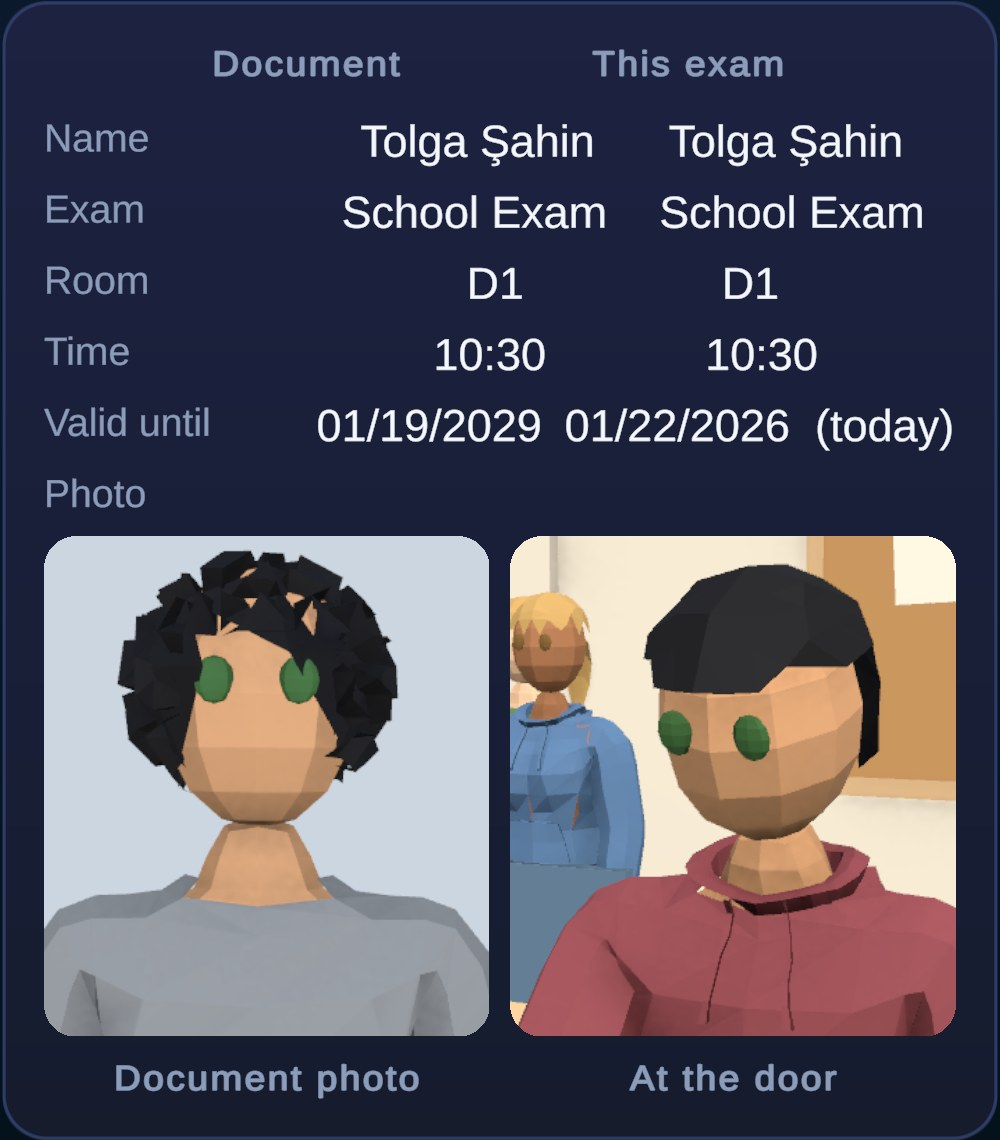
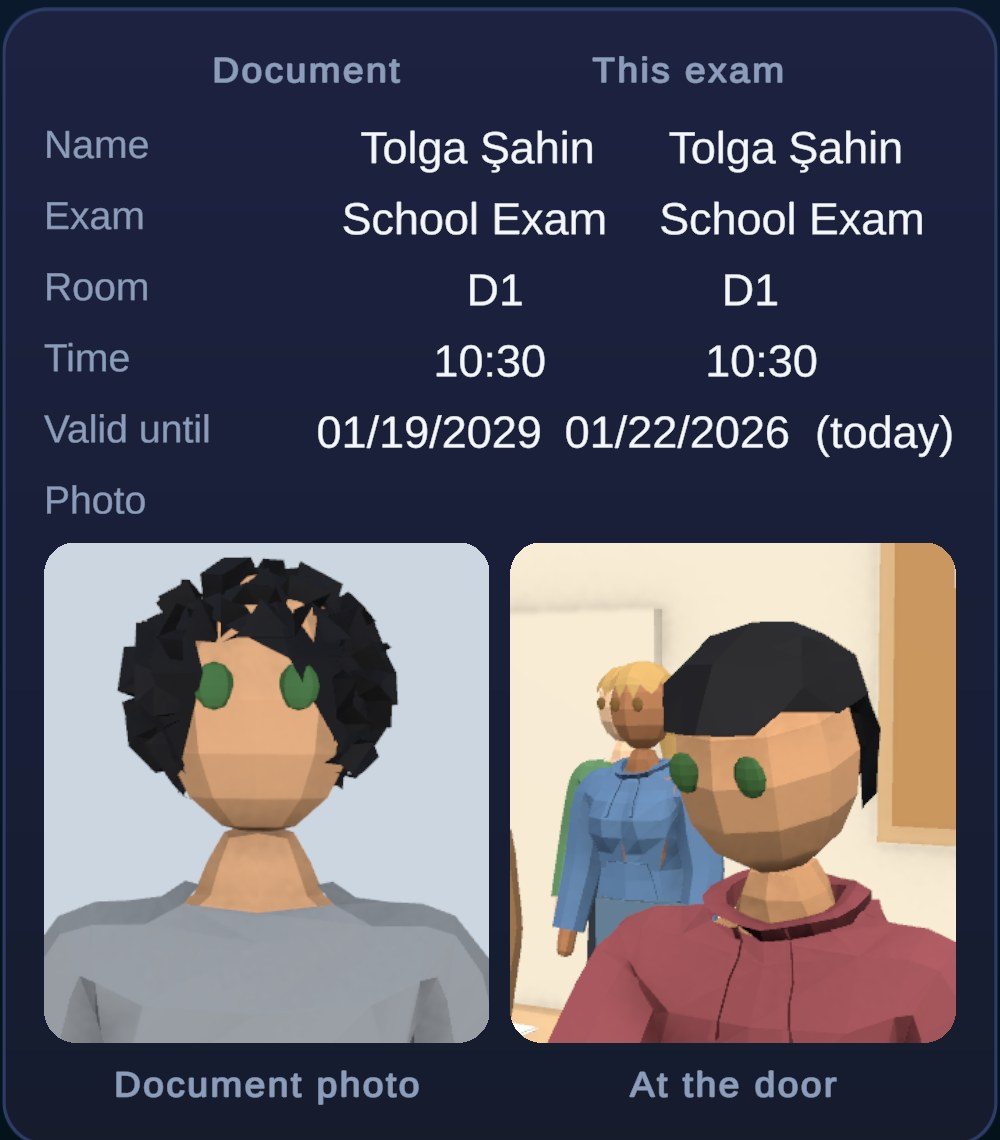
Admission Photo Check: still door camera, no look in words
The close-up at the door is now a fixed camera on the inspection spot, so
the report shows the re-captured cases, the walk in and out, and the card
without the trait line under the name. The lit-side before/after images
are gone with the tracking camera they showed.

diff --git a/admission-photo/index.html b/admission-photo/index.html
@@ -4,7 +4,7 @@
 <meta charset="utf-8">
 <meta name="viewport" content="width=device-width,initial-scale=1">
 <title>Admission Photo Check</title>
-<meta name="description" content="The admission photo check as pictures: the document photo beside a live close-up of the person at the door, with a readability verdict for every case.">
+<meta name="description" content="The admission photo check as pictures: the document photo beside a still, live camera on the person at the door, with a readability verdict for every case.">
 <link rel="preconnect" href="https://fonts.googleapis.com">
 <link rel="preconnect" href="https://fonts.gstatic.com" crossorigin>
 <link rel="stylesheet" href="https://fonts.googleapis.com/css2?family=Bricolage+Grotesque:opsz,wght@12..96,500;12..96,700&family=Source+Sans+3:wght@400;600&family=JetBrains+Mono:wght@500&display=swap">
@@ -63,7 +63,7 @@ figure { margin: 0; display: grid; gap: 8px; align-content: start; }
 figcaption { font-size: 0.92rem; color: var(--muted); display: grid; gap: 4px; }
 figcaption b { color: var(--ink); font-weight: 600; }
 .figs { display: grid; grid-template-columns: repeat(auto-fill, minmax(260px, 1fr)); gap: 16px; }
-.pair { display: grid; grid-template-columns: repeat(auto-fit, minmax(240px, 1fr)); gap: 16px; max-width: 760px; }
+.seq { display: grid; gap: 16px; }
 
 .lead-row { display: grid; grid-template-columns: minmax(0, 300px) minmax(0, 1fr); gap: 24px; align-items: start; }
 @media (max-width: 720px) { .lead-row { grid-template-columns: 1fr; } .lead-row figure { max-width: 300px; } }
@@ -90,17 +90,19 @@ figcaption b { color: var(--ink); font-weight: 600; }
     <h1>Admission Photo Check</h1>
     <p class="lede">At the door, the player compares the photo on a candidate's document with the person in front of them.
       This used to be four lines of words per side. It is now two pictures: the document photo, rendered from the photo's
-      traits in a plain booth, and a live close-up of the actual student the room has walked to the door. Everything below
-      is a capture of the real admission screen at 1080×2340 portrait. The photos were forced to each case on a
-      fixed-seed career.</p>
+      traits in a plain booth, and a still, live camera on the spot where the room walks each student to the door. The
+      player compares faces, not words: the person's look is no longer written under their name. Everything below is a
+      capture of the real admission screen at 1080×2340 portrait. The photos were forced to each case on a fixed-seed
+      career.</p>
   </header>
 
   <section>
     <div class="section-head">
       <h2>Verdict</h2>
-      <p class="muted">Every impostor change is visible at phone size. Hair and glasses read at a glance. Eyes and skin need a
-        real look, which is the judgement the door is meant to ask for. Two pairs are close enough that a player could miss
-        them.</p>
+      <p class="muted">Every impostor change is visible at phone size, with the camera now fixed in place. The face at the door
+        is about as large as it was when the camera followed the person, and it is seen a little more from the side (26°
+        instead of 22°). Hair and glasses read at a glance. Eyes and skin need a real look, which is the judgement the door
+        is meant to ask for. Two pairs are close enough that a player could miss them.</p>
     </div>
     <div class="verdicts">
       <div class="card"><span class="tag glance">at a glance</span><h3>Haircut, hair colour, glasses</h3>
@@ -112,7 +114,8 @@ figcaption b { color: var(--ink); font-weight: 600; }
         <p>Medium against tan, tan against dark, and anything two steps apart are clear.</p></div>
       <div class="card"><span class="tag care">with care</span><h3>Skin, light against medium</h3>
         <p>The weakest case. The photo's even light and the room's warm light shift both tones a little. It reads, but only
-          if you compare the lit cheeks.</p></div>
+          if you compare the lit cheeks. The camera stays on the side of the face the room's sun lights, so a light face
+          does not turn grey.</p></div>
     </div>
   </section>
 
@@ -126,15 +129,35 @@ figcaption b { color: var(--ink); font-weight: 600; }
         <figcaption>The whole door at 1080×2340, shown at half size.</figcaption>
       </figure>
       <ul class="notes">
+        <li><b>No look in words.</b> The line under the name used to print "long auburn hair, brown eyes, light skin,
+          glasses". It is hidden whenever the pictures show. It comes back only in the game's developer debug mode
+          (the same switch as the ground-truth labels, which a release build cannot turn on), and when the pictures
+          cannot render, where the card falls back to words.</li>
         <li><b>Document photo.</b> Head and shoulders, dead on, an even frontal light, a pale backdrop. The sitter always
           wears the same grey top, so clothing never enters the comparison. Rendered once per face and cached.</li>
-        <li><b>At the door.</b> A live camera on the real student standing at the door, about 20° to the side and a little
-          above eye height, lit by the room. The player sees them walk into frame.</li>
+        <li><b>At the door.</b> A live camera that never moves. It is placed once from the spot where the room walks each
+          student to be checked, at standing eye height, a little in front of them and 26° to the side the room's sun lights.
+          It does not follow anyone. The person being checked fills the right of the frame; the queue, the walk in and the
+          way out show behind and beside them.</li>
         <li><b>The rest of the card is unchanged.</b> The "Photo" row keeps its label and the pictures replace its two value
-          cells. When nothing can render (tests, headless) the card falls back to the old words.</li>
-        <li><b>Still on screen:</b> the line under the name repeats the person's look in words. This slice left it alone,
-          and it gives the comparison away. See the open questions.</li>
+          cells.</li>
       </ul>
+    </div>
+  </section>
+
+  <section>
+    <div class="section-head">
+      <h2>Coming and going</h2>
+      <p class="muted">Four frames from the live picture after a decision, camera untouched. Captured with the game slowed
+        to a quarter speed so the walk shows in four frames; at full speed the change-over takes about a second.</p>
+    </div>
+    <div class="seq">
+      <figure><img src="img/seq_admit.jpg" width="1316" height="400" alt="Four frames: a student at the door, then walking past the camera to a seat, the next student walking up, then standing at the door">
+        <figcaption><b>Admitted.</b> The student at the door walks past the camera toward the seats while the next one in
+          the queue walks up and stops at the same spot.</figcaption></figure>
+      <figure><img src="img/seq_reject.jpg" width="1316" height="400" alt="Four frames: a student at the door, then the next student walking up while the rejected one walks away to the back door, then the new student at the door with the rejected one leaving behind them">
+        <figcaption><b>Rejected.</b> The rejected student turns and walks back out through the door at the back of the room,
+          passing behind the next student as they arrive.</figcaption></figure>
     </div>
   </section>
 
@@ -209,38 +232,18 @@ figcaption b { color: var(--ink); font-weight: 600; }
 
   <section>
     <div class="section-head">
-      <h2>One tweak: the close-up looks at the lit side</h2>
-      <p class="muted">The room's sun lights one side of the face. The first close-up looked from the other side, which turned a
-        light face grey and a medium one tan, so skin could not be compared fairly. The camera now looks from the lit side.
-        Same student and photos before and after.</p>
-    </div>
-    <div class="pair">
-      <figure><img src="img/before_genuine.jpg" width="920" height="510" alt="Before: genuine light-skinned holder, close-up on the shadowed side">
-        <figcaption><b>Before</b> · genuine, light skin: the face at the door is in shade and reads darker than the photo.</figcaption></figure>
-      <figure><img src="img/after_genuine.jpg" width="920" height="510" alt="After: genuine light-skinned holder, close-up on the lit side">
-        <figcaption><b>After</b> · genuine, light skin: both read light.</figcaption></figure>
-      <figure><img src="img/before_medium.jpg" width="920" height="510" alt="Before: medium-skin photo against a light-skinned holder in shade">
-        <figcaption><b>Before</b> · medium photo, light holder: the shade hides the difference.</figcaption></figure>
-      <figure><img src="img/after_medium.jpg" width="920" height="510" alt="After: medium-skin photo against a light-skinned holder in light">
-        <figcaption><b>After</b> · medium photo, light holder: the photo reads warmer and darker.</figcaption></figure>
-    </div>
-  </section>
-
-  <section>
-    <div class="section-head">
       <h2>Open questions</h2>
     </div>
     <ul class="notes">
-      <li><b>The look in words, under the name.</b> The identity card still prints "long auburn hair, brown eyes, light skin,
-        glasses". With pictures on the card, that line turns the check back into reading. Recommendation: hide it when the
-        pictures show.</li>
-      <li><b>The queue behind the person.</b> The next candidate in line sometimes stands in the background of the close-up.
-        It reads as a corridor, but a second face in the frame could confuse. A tighter framing would remove it.</li>
       <li><b>Light against medium skin.</b> It is the smallest step in the skin palette. The steps could be evened out, which
         also changes how everyone looks in the room, or it could stay as the hard case. A device playtest should decide.</li>
-      <li><b>Cost on the phone.</b> The close-up renders the room a second time while the door is open, at 320×400 with no
-        shadows. That has not been measured on the Galaxy A15 yet. The main camera still draws the full room under the
-        opaque card, and switching it off at the door would more than pay for the close-up.</li>
+      <li><b>Cost on the phone.</b> The live picture renders the room a second time while the door is open, at 320×400 with
+        no shadows or post-processing. That has not been measured on the Galaxy A15 yet.</li>
+      <li><b>Faces in the background.</b> The next student in line is usually visible behind the one being checked, smaller
+        and further back. That is the intent, but a playtest should confirm nobody compares the photo with the wrong
+        face.</li>
+      <li><b>The admitted student passes close to the camera.</b> For a fraction of a second their head fills part of the
+        frame as they walk to their seat. It reads as someone walking past; the camera does not react.</li>
     </ul>
   </section>
 </div>

diff --git a/index.html b/index.html
@@ -73,7 +73,7 @@ header { padding-block: 40px 0; display: grid; gap: 16px; }
         <a href="admission-photo/">
           <time datetime="2026-10-26">2026-10-26</time>
           <h2>Admission Photo Check</h2>
-          <p>The photo check at the door as pictures: the document photo beside a live close-up of the person standing there, every case captured on the phone screen, and how readable each one is.</p>
+          <p>The photo check at the door as pictures: the document photo beside a still, live camera on the person standing there, every case captured on the phone screen, and how readable each one is.</p>
         </a>
       </li>
       <li class="report">
